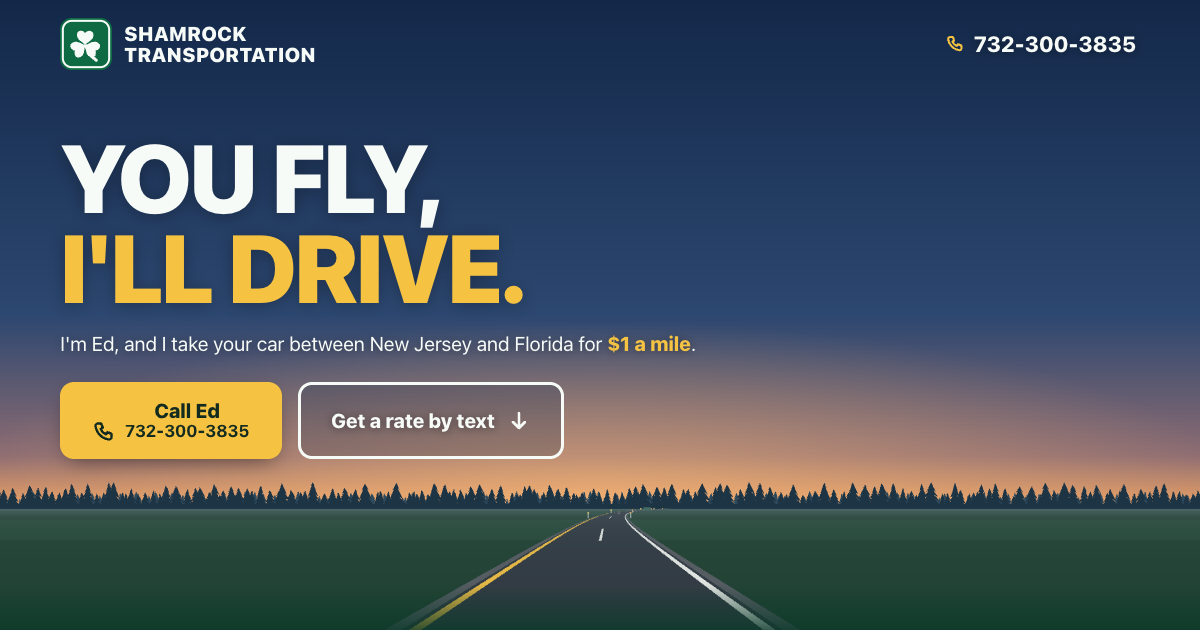
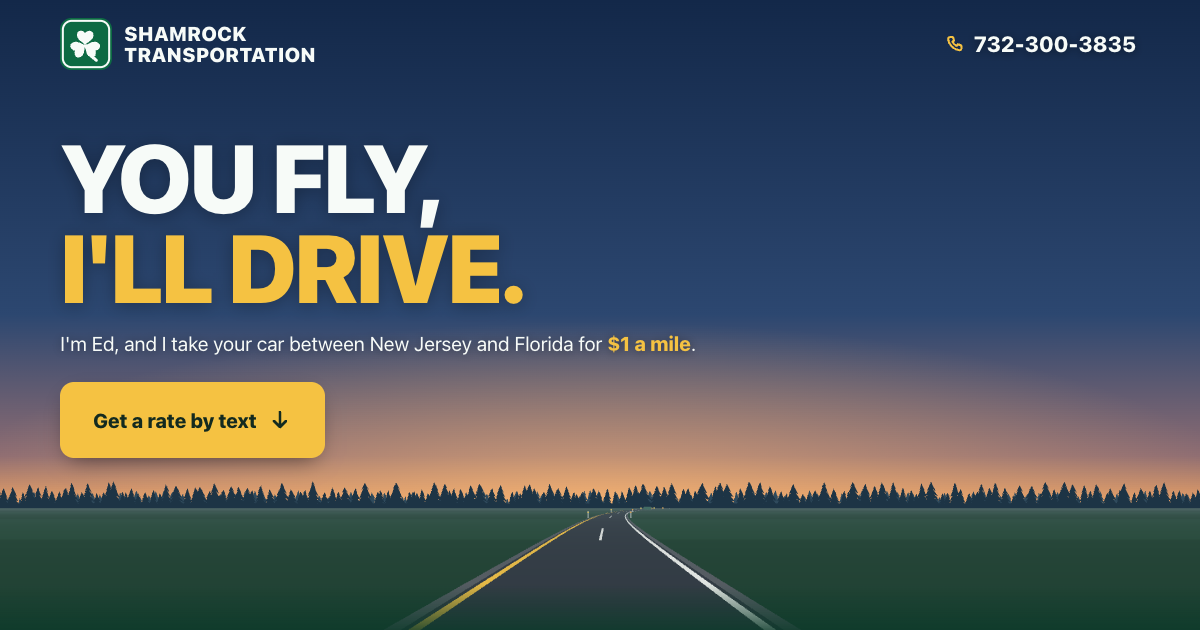
Remove the hero Call Ed button; Get a rate by text becomes the yellow hero button
Claude-Session: https://claude.ai/code/session_01H7VhvuU6x3qGzxsMHHhszH

diff --git a/index.html b/index.html
@@ -54,7 +54,6 @@ section{position:relative}
 .btn{display:flex;align-items:center;justify-content:center;gap:12px;min-height:60px;padding:14px 26px;border-radius:14px;font-size:20px;font-weight:800;text-decoration:none;border:3px solid transparent;cursor:pointer;font-family:inherit;line-height:1.15;transition:transform .2s cubic-bezier(.2,.8,.2,1),outline-color .15s,box-shadow .2s}
 .btn svg{flex:none;width:24px;height:24px}
 .btn-call{background:var(--lane);color:var(--lane-ink);border-color:var(--lane);box-shadow:0 8px 22px -8px rgba(0,0,0,.55)}
-.btn-line{background:rgba(19,40,73,.22);text-shadow:0 1px 8px rgba(0,0,0,.45);color:var(--white);border-color:var(--white)}
 .btn:active{transform:translateY(1px) scale(.99)}
 .btn small{display:block;font-size:17px;font-weight:700}
 /* phone icon sits on the number line, not between the two lines */
@@ -176,7 +175,7 @@ footer .fine p + p{margin-top:6px}
   .hero-copy{padding-top:132px}
   .hero h1{font-size:clamp(4.4rem,8.4vw,6rem)}
   .promise{max-width:none}
-  .hero-actions{grid-template-columns:auto auto;justify-content:start;gap:16px}
+  .hero-actions{grid-template-columns:auto;justify-content:start}
   .hero-actions .btn{padding:14px 30px}
   .meet{padding:88px 0 0}
   .quote{padding:88px 0 88px}
@@ -217,7 +216,7 @@ footer .fine p + p{margin-top:6px}
 THESIS: The interstate itself sells the trip: a still dusk view down I-95, and the rate request on a guide sign, plain enough to read at 65 mph. Refuses the auto-transport default of a stock truck photo, a quote form wall and fine print.
 OWN-WORLD: Guide-sign green panels with an inset white border, retroreflective white lettering, lane-line yellow for the one action, asphalt with yellow left edge and white dashes, dusk sky (navy to Florida-peach glow), highway-concrete light sections. Deep roadside green ground, never black.
 STORY: Snowbird sees "You fly, I'll drive.", understands Ed drives their car while they fly, meets Ed, sees $1 a mile, picks their trip and texts (or calls) for the total, reads straight answers, and calls. Kept short, still and calm for a 40-70 audience: nothing moves, nothing to figure out.
-FIRST VIEWPORT: Phone: shamrock and name top-left, full number top-right; huge two-line headline; one-line promise; yellow Call Ed 732-300-3835 (full width) and outlined Get a rate by text; below, a still picture of the road running to a pine horizon, with an I-95 sign ahead.
+FIRST VIEWPORT: Phone: shamrock and name top-left, full number top-right; huge two-line headline; one-line promise; one yellow Get a rate by text button (full width), the call is the header number; below, a still picture of the road running to a pine horizon, with an I-95 sign ahead.
 FORM: Interstate guide signs + dusk highway, my list #1 (seed b9fde720 assigned #6 luggage tags; overridden by Ellie's pitch-site rule: brand + fluid touchable signature). No animation at all, by Ellie's decision (2026-10-14, audience 40-70): the hero road is one still frame. This overrides the pitch-site signature-motion rule for this site.
 FINISH: unreviewed and undocumented is unfinished; this build ends with the finish review, the verdict, DESIGN.md, and every shipping raster carrying its provenance
 -->
@@ -253,8 +252,7 @@ FINISH: unreviewed and undocumented is unfinished; this build ends with the fini
       <h1 id="h1"><span>You fly,</span> <span class="yl">I'll drive.</span></h1>
       <p class="promise">I'm Ed, and I take your car between New&nbsp;Jersey and Florida for <strong class="price">$1&nbsp;a&nbsp;mile</strong>.</p>
       <div class="hero-actions">
-        <a class="btn btn-call" href="tel:+17323003835"><span class="tel-row"><svg aria-hidden="true"><use href="#i-phone"/></svg><span class="btn-stack">Call Ed<small>732-300-3835</small></span></span></a>
-        <a class="btn btn-line" href="#quote">Get a rate by text<svg aria-hidden="true"><use href="#i-down"/></svg></a>
+        <a class="btn btn-call" href="#quote">Get a rate by text<svg aria-hidden="true"><use href="#i-down"/></svg></a>
       </div>
     </div>
   </section>

diff --git a/DESIGN.md b/DESIGN.md
@@ -206,7 +206,7 @@ The page opens from the driver's seat: a dusk sky going peach at the horizon, a 
 Density is low and type is big for a 40-to-70 reader on a phone. The ground is deep roadside green, never black; the one light section is concrete. Lane yellow is the action color; a sky-blue outline is the one hover/focus voice. Nothing moves.
 
 **Key Characteristics:**
-- A still canvas road at dusk behind an uppercase two-line headline and two buttons (yellow call, white outline).
+- A still canvas road at dusk behind an uppercase two-line headline and one yellow "Get a rate by text" button; the header number is the call action.
 - One sign panel (green, inset white rule, 16px corners) holds the rate form; the road's own sign repeats that grammar.
 - One yellow for action; one sky-blue outline for hover and focus.
 - One system font stack worked by weight: 900 headings, 800 controls, 400 talk.
@@ -272,7 +272,7 @@ The road sign's lettering is drawn in the same stack at 800 (route) and 900 (des
 
 Phone-first single column, 20px gutters in a 1160px container (40px from 760px; 14px in the header under 480px). Sections run 56 to 64px vertical padding on phones, 88px on desktop.
 
-The hero is a tall stage, `max(640px, min(100svh, 1000px))` (560px in short landscape), left-aligned at every width. Copy starts 96px down (132px from 760px, 84px in short landscape): h1, promise 18px below, actions 24px below. On phones the two buttons stack full width at 76px with a 12px gap; from 760px they sit side by side at their own width with a 16px gap. The canvas fills the hero; its horizon sits 48px below the copy or at 42% of the height, whichever is lower, so the road always shows under the buttons.
+The hero is a tall stage, `max(640px, min(100svh, 1000px))` (560px in short landscape), left-aligned at every width. Copy starts 96px down (132px from 760px, 84px in short landscape): h1, promise 18px below, actions 24px below. On phones the one button is full width at 76px; from 760px it sits at its own width. The canvas fills the hero; its horizon sits 48px below the copy or at 42% of the height, whichever is lower, so the road always shows under the buttons.
 
 The header is absolutely placed over the hero, not sticky: brand top-left, full phone number top-right, 72px tall (88px from 760px). From 760px trip rows pair into two columns. Only from 1024px do the form and FAQ split 5fr / 7fr with a 56px gap and When / Your car share a row (landscape phones and small tablets stay single-column, so the form never squeezes). The footer is centered with one call button (max 420px). Breakpoints: 760px, 1024px, 1100px; max-width 479px, 379px (header phone icon hides), 339px; max-height 500px landscape.
 
@@ -300,9 +300,6 @@ Softly rounded rectangles stepping down with size: sign panel 16px, buttons 14px
 
 ### Call Button
 Heavy, wide, unmistakable. Lane-yellow fill and 3px border, lane-ink text, 14px radius, Button Lift, a leading 24px phone or SMS icon, the number as a second 17px line. 60px tall; 76px in the hero. Used in the hero, as "Text this to Ed" on the form, and in the footer.
-
-### Line Button (hero only)
-The second path: "Get a rate by text" with a trailing 24px down arrow, jumping to the form. 3px white border, white text with Dusk Legibility, dusk-veil fill, 14px radius, no lift. Same height and padding as the hero call button beside it.
 
 ### Hero Road (signature)
 A full-bleed canvas behind the copy, decorative and hidden from assistive tech: the dusk sky and sun glow, two rows of pines, mown verge bands, a two-lane road bending right with a yellow left edge, white right edge and white dashes, reflector posts (white-reflector right, yellow-reflector left) and one green guide sign on the right shoulder. The sign reads I-95 NORTH / NEW JERSEY from April through August and I-95 SOUTH / FLORIDA the rest of the year.
@@ -332,7 +329,7 @@ Night Verge ground, centered: 64px white shamrock, the close headline, the Ed li
 
 ### Do:
 - **Do** keep the page still: draw the road once, redraw only on resize, transitions only on controls.
-- **Do** keep the hero to the two-line uppercase headline, the promise, and two buttons: yellow call first, white outline second.
+- **Do** keep the hero to the two-line uppercase headline, the promise, and one yellow button to the form; the call lives in the header.
 - **Do** put the rate form on the sign panel with the Sign Mount.
 - **Do** use the 3px focus-sky outline for every hover and focus.
 - **Do** keep controls 58px or taller, links 48px, answer choices as large rows, text at 17px or larger.

diff --git a/HANDOFF.md b/HANDOFF.md
@@ -7,7 +7,7 @@
 - **Simplified 2026-10-14 for a 40-70 audience (Ellie):** nothing moves, nothing to figure out, sections with little detail cut. Removed: the moving road dividers, the separate rate board, the "before you say yes" list, "Pack the car full", "How the trip goes", and the closing sign (its content now lives in the footer).
 - **Applied Ellie's 40-70 research brief (2026-10-14, `~/Downloads/NJ_Florida_Vehicle_Delivery_Website_Research_and_Design_Brief_Ages_40_to_70.pdf`):** full phone number in the header, mixed-case section headings (hero stays sign caps), "When" made optional in the form, and a "Who will I be dealing with?" answer naming Ed (now replaced by Meet your driver).
 - **Header:** shamrock and name on the left, the full number 732-300-3835 on the right (tap to call). On phones under 430px the name shrinks to 14px so the number fits; under 340px only the shamrock shows.
-- **Hero:** "You fly, I'll drive." (Ed's own line, Ellie's pick 2026-10-15; was "One rate. No surprises.") and "I'm Ed, and I take your car between New Jersey and Florida for $1 a mile." (the price in yellow) Two buttons: Call Ed (filled yellow, `tel:`) and Get a rate by text (outlined, scrolls to the form). Behind and below: a dusk view down I-95 (pines, reflector posts, a distant green sign) drawn once as a still picture.
+- **Hero:** "You fly, I'll drive." (Ed's own line, Ellie's pick 2026-10-15; was "One rate. No surprises.") and "I'm Ed, and I take your car between New Jersey and Florida for $1 a mile." (the price in yellow) One button: Get a rate by text (yellow, scrolls to the form). The hero Call Ed button was removed 2026-10-15 (Ellie): the header number is the call action at the top; the footer still has a Call Ed button. Behind and below: a dusk view down I-95 (pines, reflector posts, a distant green sign) drawn once as a still picture.
   - History, all 2026-10-14: steerable animated road (first build) → self-driving calm road → replaced by a still guide-sign hero ("I'll drive your car. You fly.") → Ellie brought the road hero back, static. The sign hero is in git history (commit 1d0b58a) if wanted.
 - **No animation anywhere.** The road is drawn once on load (and again only if the window size changes); there's no animation loop. This overrides the pitch-site "signature motion" rule for this site, by Ellie's call. To pick a different still view, change `FRAME_TIME` (the bend) and `FRAME_TRAVEL` (where the posts and sign sit) at the top of the hero script.
 - **How it works was removed** (Ellie, 2026-10-15). It's in git history (commit 535ea56) if wanted.
